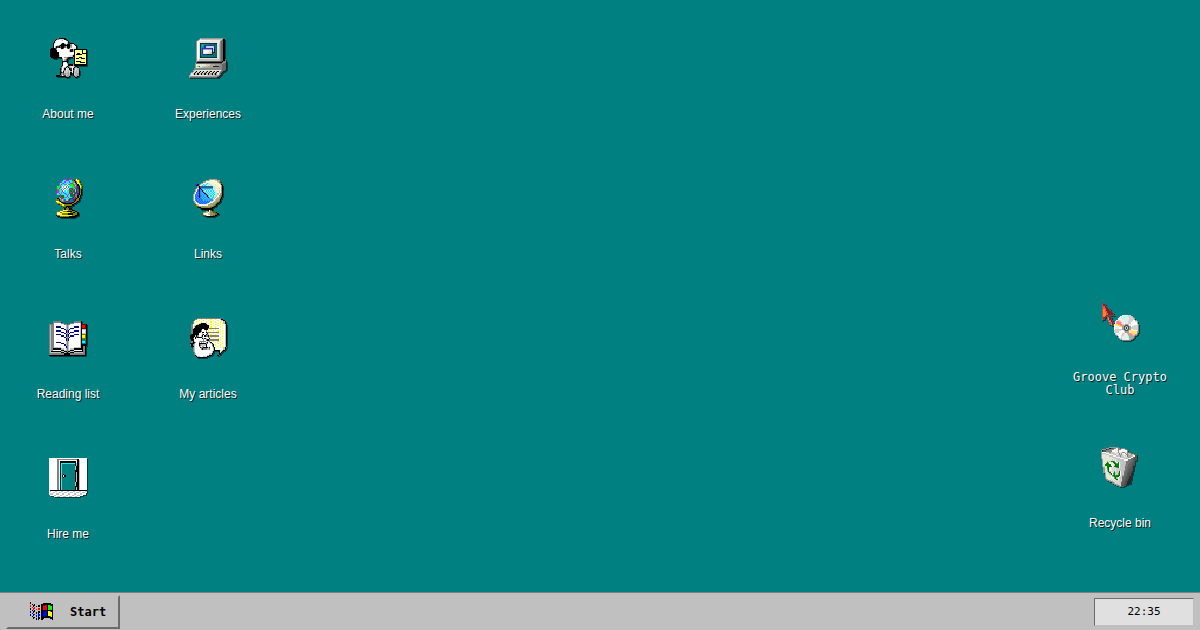
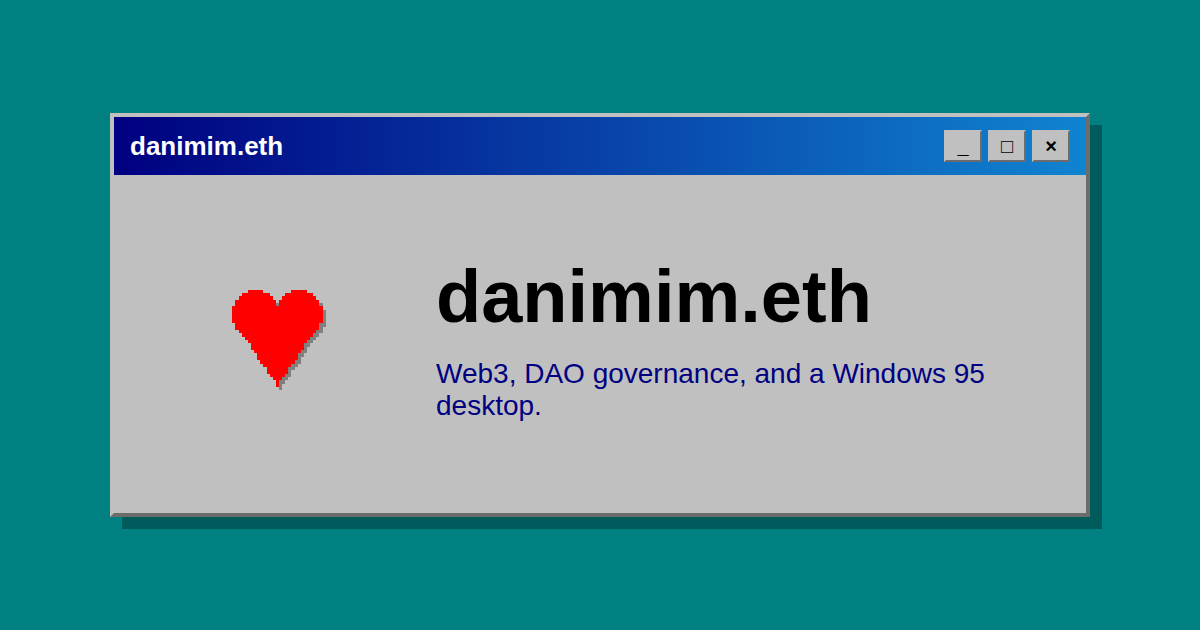
Use a standard Windows 95 OG card for all pages
Add a reusable OG card template (tools/og-card.html) and generate one
standard share image used by every page. The template takes title, icon
and subtitle as query params, so per-page cards are easy to add later.

https://claude.ai/code/session_013HrgVm5XLHuKfwFcj3W9H3

diff --git a/tools/og-card.html b/tools/og-card.html
@@ -1,0 +1,96 @@
+<!DOCTYPE html>
+<html lang="en">
+<head>
+<meta charset="UTF-8">
+<!--
+  Open Graph card template for danimim.xyz.
+  Rendered at 1200x630 and screenshotted to assets/img/og*.png.
+  Override via query params, e.g.
+    og-card.html?title=Groove%20Crypto%20Club&icon=/icons/groove.webp&sub=...
+-->
+<style>
+  * { margin: 0; padding: 0; box-sizing: border-box; }
+  html, body { width: 1200px; height: 630px; }
+  body {
+    background: #008080;
+    display: flex;
+    align-items: center;
+    justify-content: center;
+    font-family: "MS Sans Serif", "Microsoft Sans Serif", Tahoma, sans-serif;
+    image-rendering: pixelated;
+  }
+  .og-window {
+    width: 980px;
+    background: #c0c0c0;
+    border: 4px outset #c0c0c0;
+    box-shadow: 12px 12px 0 rgba(0, 0, 0, 0.28);
+  }
+  .og-titlebar {
+    background: linear-gradient(90deg, #000080, #1084d0);
+    color: #ffffff;
+    font-weight: bold;
+    font-size: 26px;
+    padding: 13px 16px;
+    display: flex;
+    align-items: center;
+    justify-content: space-between;
+  }
+  .og-controls { display: flex; gap: 6px; }
+  .og-controls span {
+    width: 38px; height: 32px;
+    background: #c0c0c0;
+    border: 2px outset #c0c0c0;
+    color: #000000;
+    font-size: 20px; font-weight: bold;
+    display: flex; align-items: center; justify-content: center;
+  }
+  .og-body {
+    padding: 60px 60px 68px;
+    display: flex;
+    align-items: center;
+    gap: 52px;
+  }
+  .og-icon {
+    width: 210px; height: 210px;
+    flex-shrink: 0;
+    image-rendering: pixelated;
+  }
+  .og-text { min-width: 0; }
+  .og-title {
+    font-size: 74px;
+    font-weight: bold;
+    color: #000000;
+    line-height: 1.05;
+  }
+  .og-sub {
+    font-size: 28px;
+    color: #000080;
+    margin-top: 22px;
+  }
+</style>
+</head>
+<body>
+  <div class="og-window">
+    <div class="og-titlebar">
+      <span id="og-tbtext">danimim.eth</span>
+      <span class="og-controls"><span>_</span><span>&#9633;</span><span>&times;</span></span>
+    </div>
+    <div class="og-body">
+      <img class="og-icon" id="og-icon" src="/favicon.png" alt="">
+      <div class="og-text">
+        <div class="og-title" id="og-title">danimim.eth</div>
+        <div class="og-sub" id="og-sub">Web3, DAO governance, and a Windows 95 desktop.</div>
+      </div>
+    </div>
+  </div>
+  <script>
+    var q = new URLSearchParams(location.search);
+    if (q.get('title')) {
+      document.getElementById('og-title').textContent = q.get('title');
+      document.getElementById('og-tbtext').textContent = q.get('title');
+    }
+    if (q.get('sub')) document.getElementById('og-sub').textContent = q.get('sub');
+    if (q.get('icon')) document.getElementById('og-icon').src = q.get('icon');
+  </script>
+</body>
+</html>

diff --git a/groove/index.html b/groove/index.html
@@ -16,11 +16,11 @@
     <meta property="og:url" content="https://danimim.xyz/groove/">
     <meta property="og:title" content="Groove Crypto Club">
     <meta property="og:description" content="Crypto and vinyl, shared on video. The Groove Crypto Club by danimim.eth.">
-    <meta property="og:image" content="https://danimim.xyz/assets/img/og-groove.png">
+    <meta property="og:image" content="https://danimim.xyz/assets/img/og.png">
     <meta name="twitter:card" content="summary_large_image">
     <meta name="twitter:title" content="Groove Crypto Club">
     <meta name="twitter:description" content="Crypto and vinyl, shared on video. The Groove Crypto Club by danimim.eth.">
-    <meta name="twitter:image" content="https://danimim.xyz/assets/img/og-groove.png">
+    <meta name="twitter:image" content="https://danimim.xyz/assets/img/og.png">
 </head>
 <body>
     <!-- Desktop -->